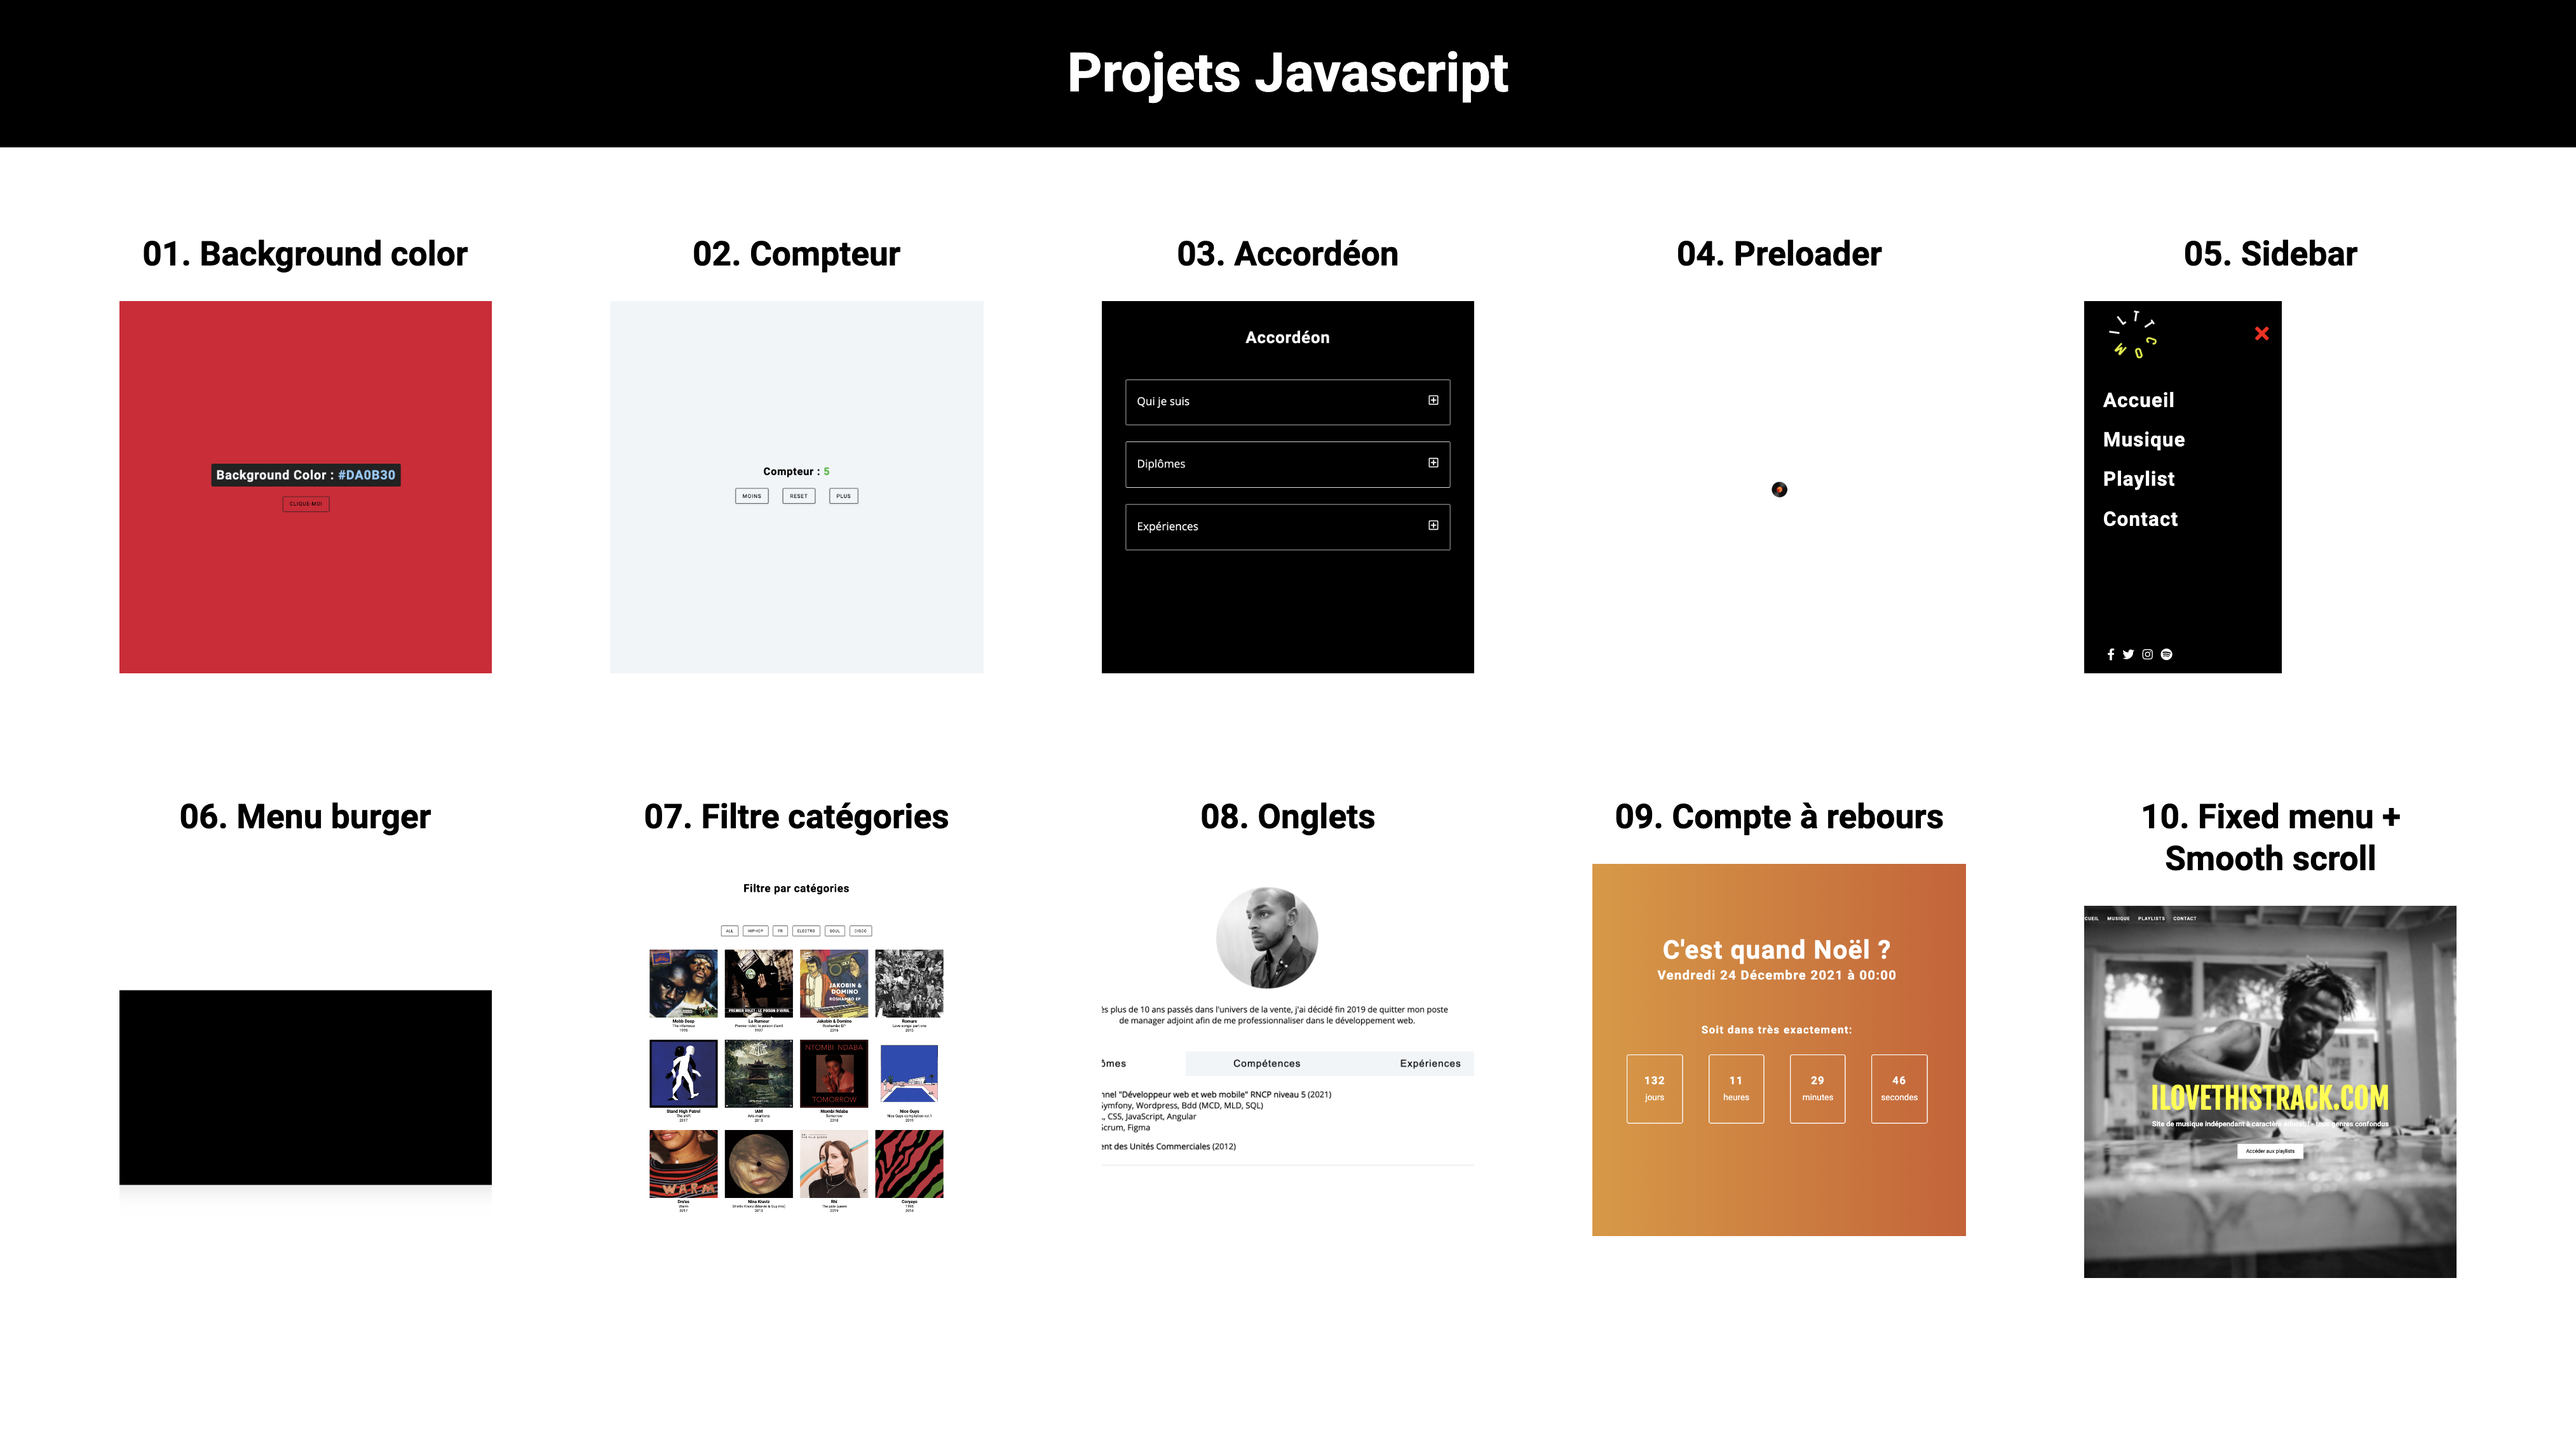
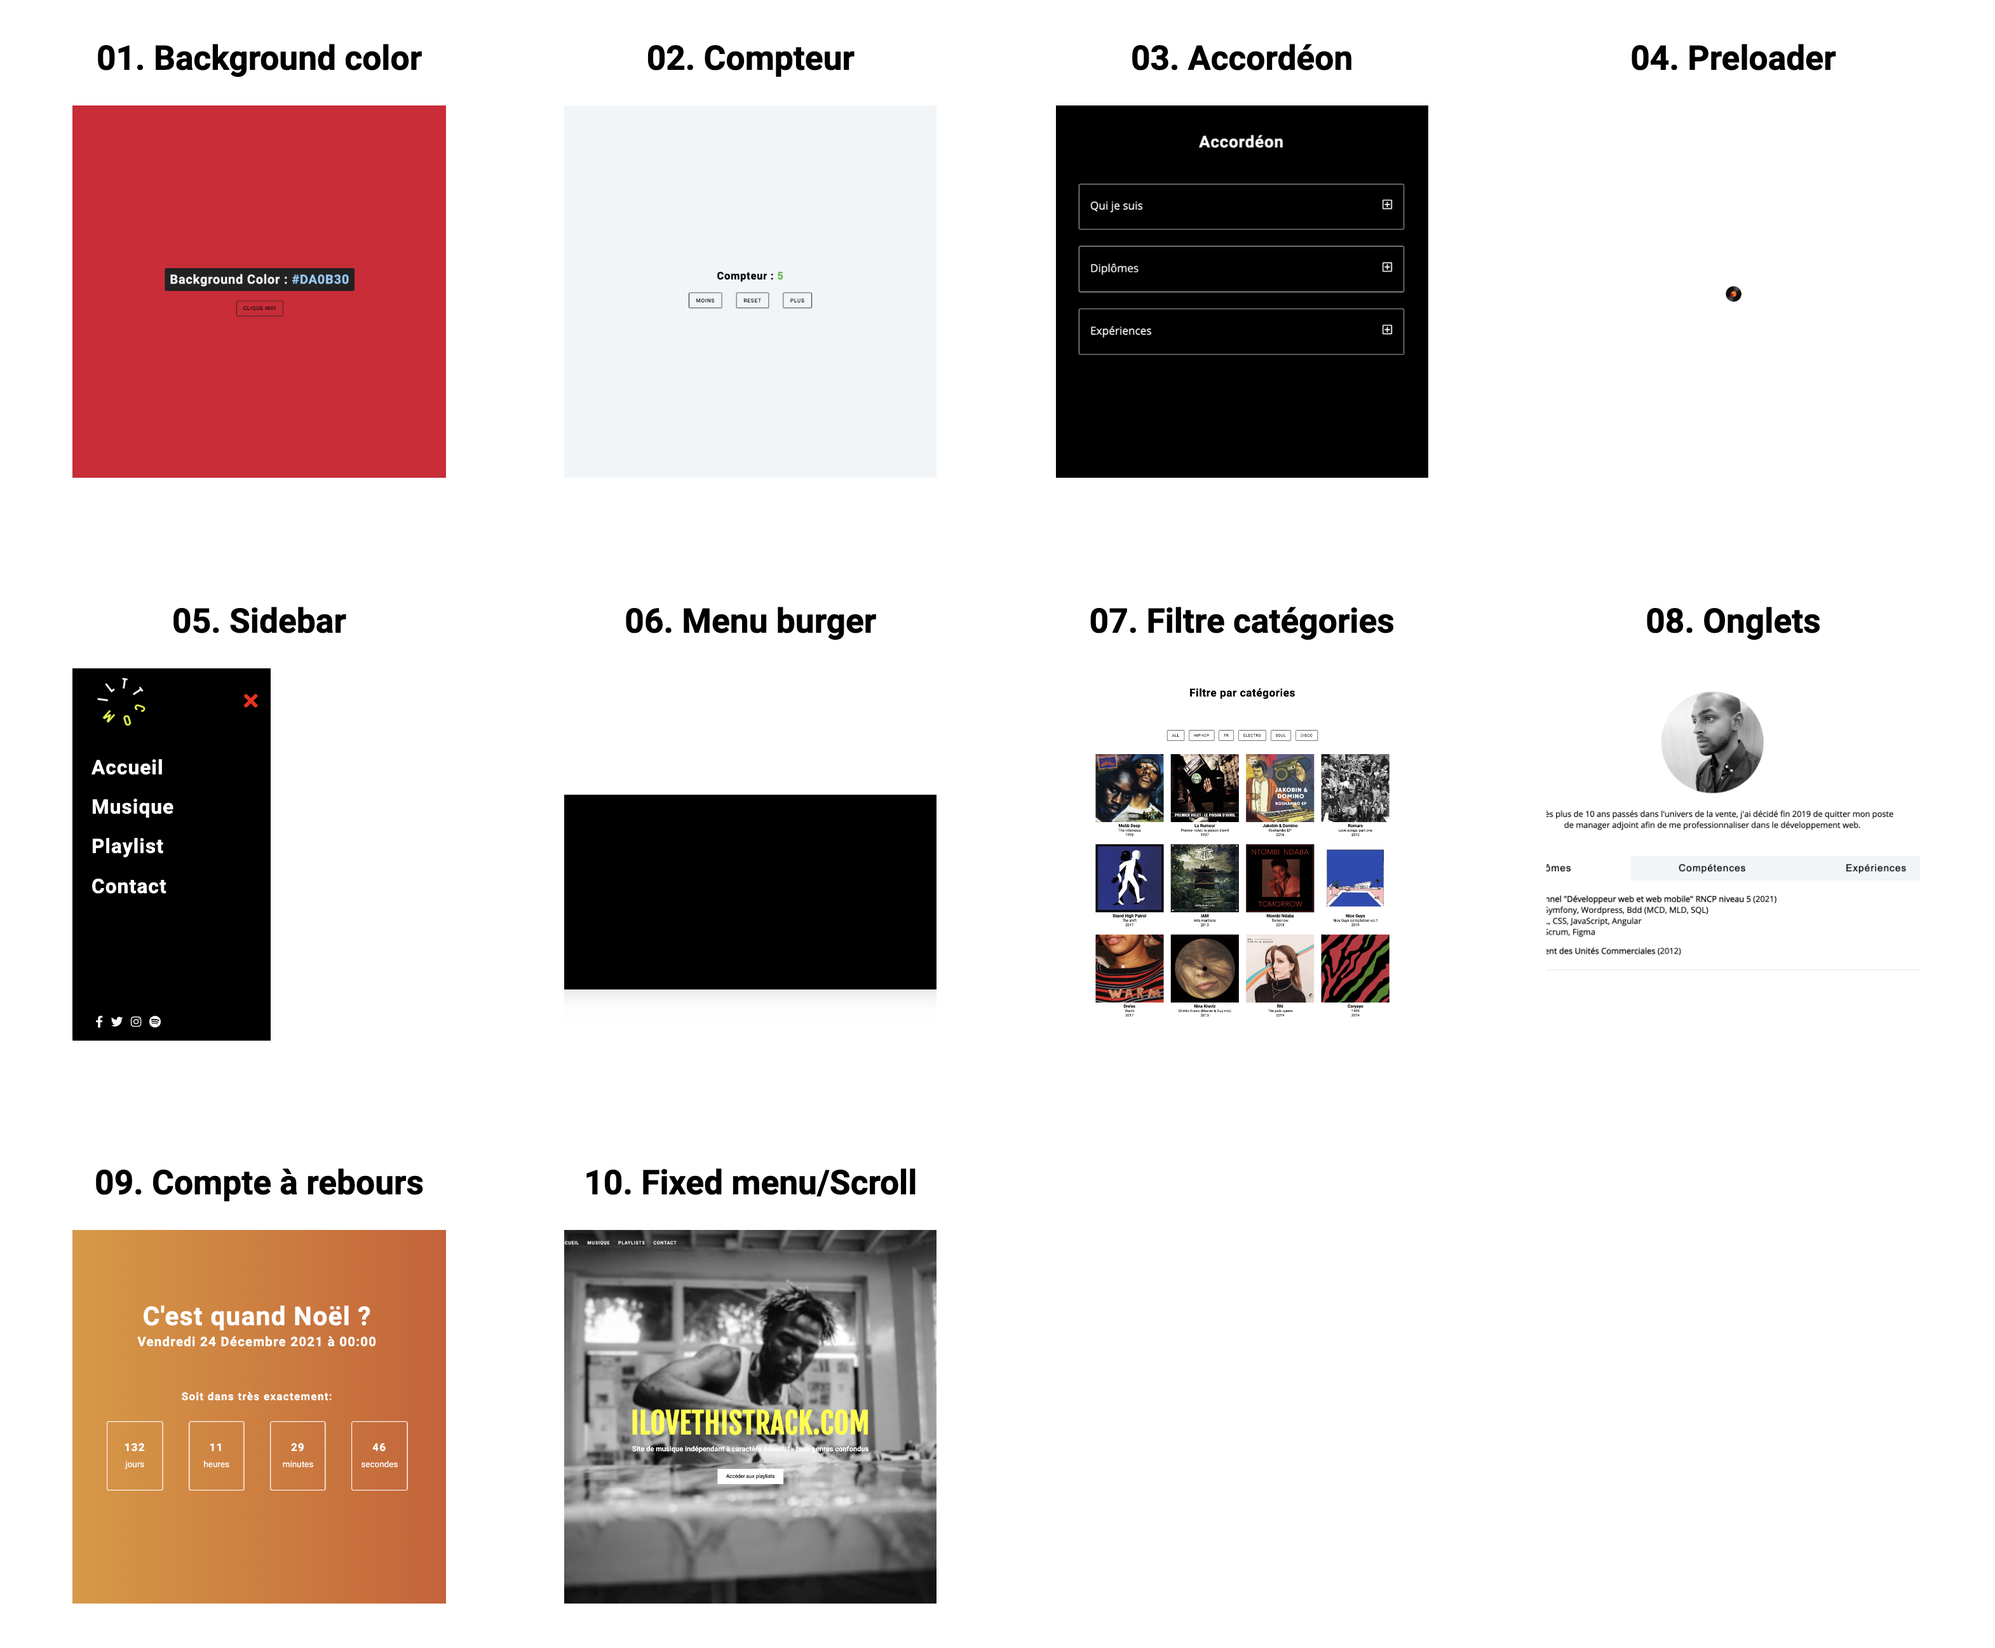
:bento: New screenshot

diff --git a/index.html b/index.html
@@ -65,7 +65,7 @@
                     </li>
 
                     <li>
-                        <h2>10. Fixed menu + Smooth scroll</h2>
+                        <h2>10. Fixed menu/Scroll</h2>
                         <a href="./10-scroll-top" target="_blank"><img src="./assets/10.png" alt="Fixed menu"></a>
                     </li>
                 </ul>
